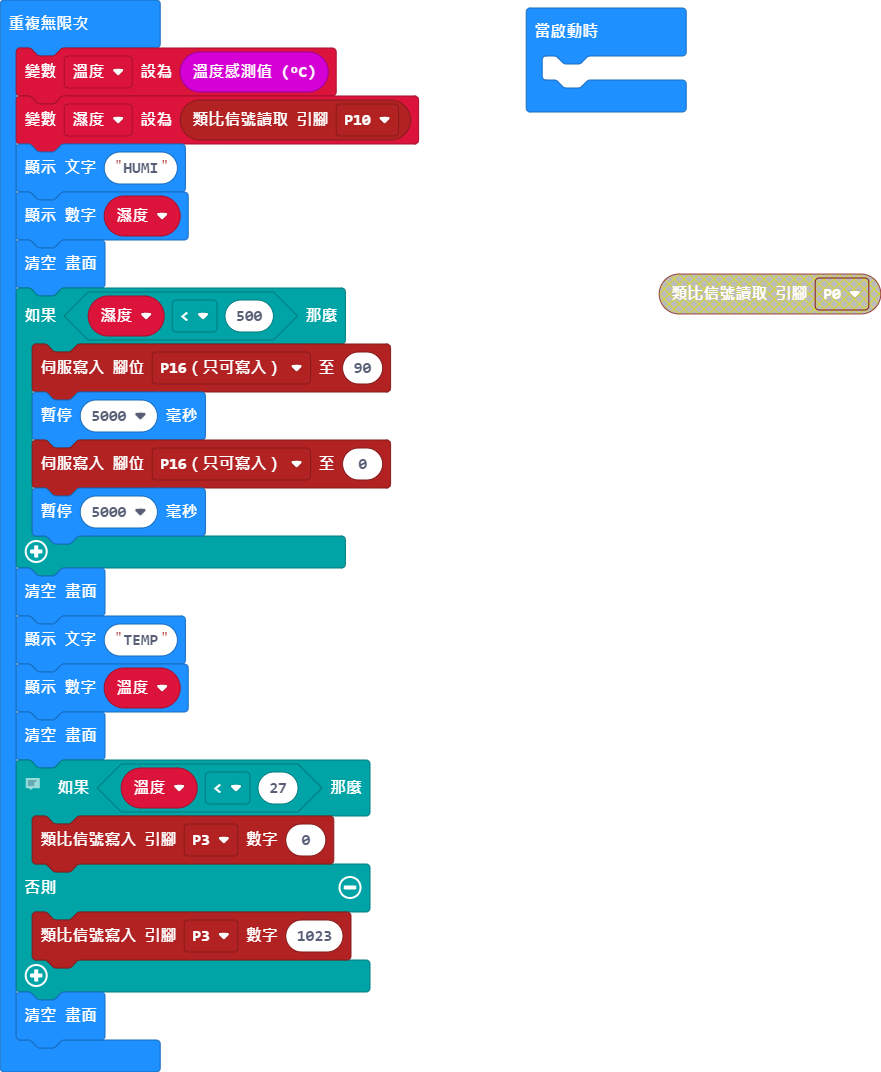
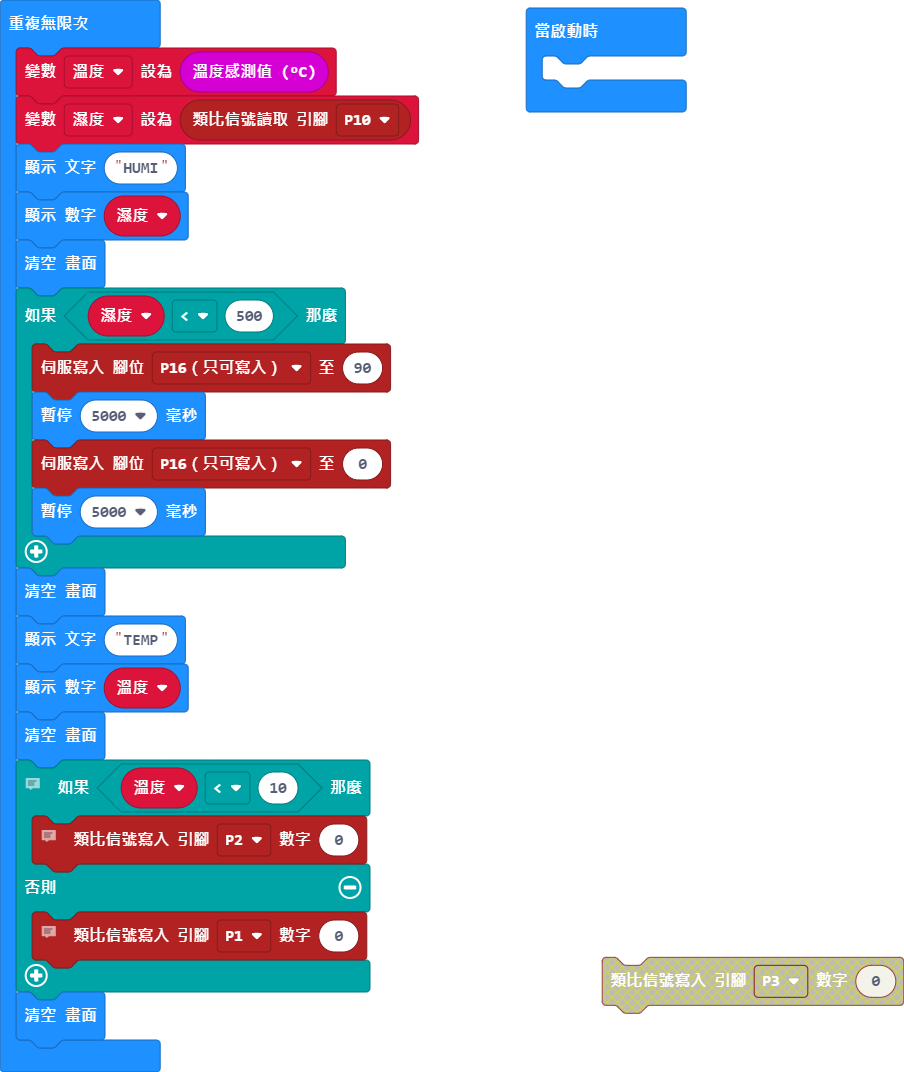
更新 main.blocks, main.ts

diff --git a/main.ts b/main.ts
@@ -17,10 +17,13 @@ basic.forever(function () {
     basic.showNumber(溫度)
     basic.clearScreen()
     // 預計會開燈，增加溫度
-    if (溫度 < 27) {
-        pins.analogWritePin(AnalogPin.P3, 0)
+    if (溫度 < 10) {
+        // 控制紅燈
+        // 
+        pins.analogWritePin(AnalogPin.P2, 0)
     } else {
-        pins.analogWritePin(AnalogPin.P3, 1023)
+        // 控制蘭登
+        pins.analogWritePin(AnalogPin.P1, 0)
     }
     basic.clearScreen()
 })
